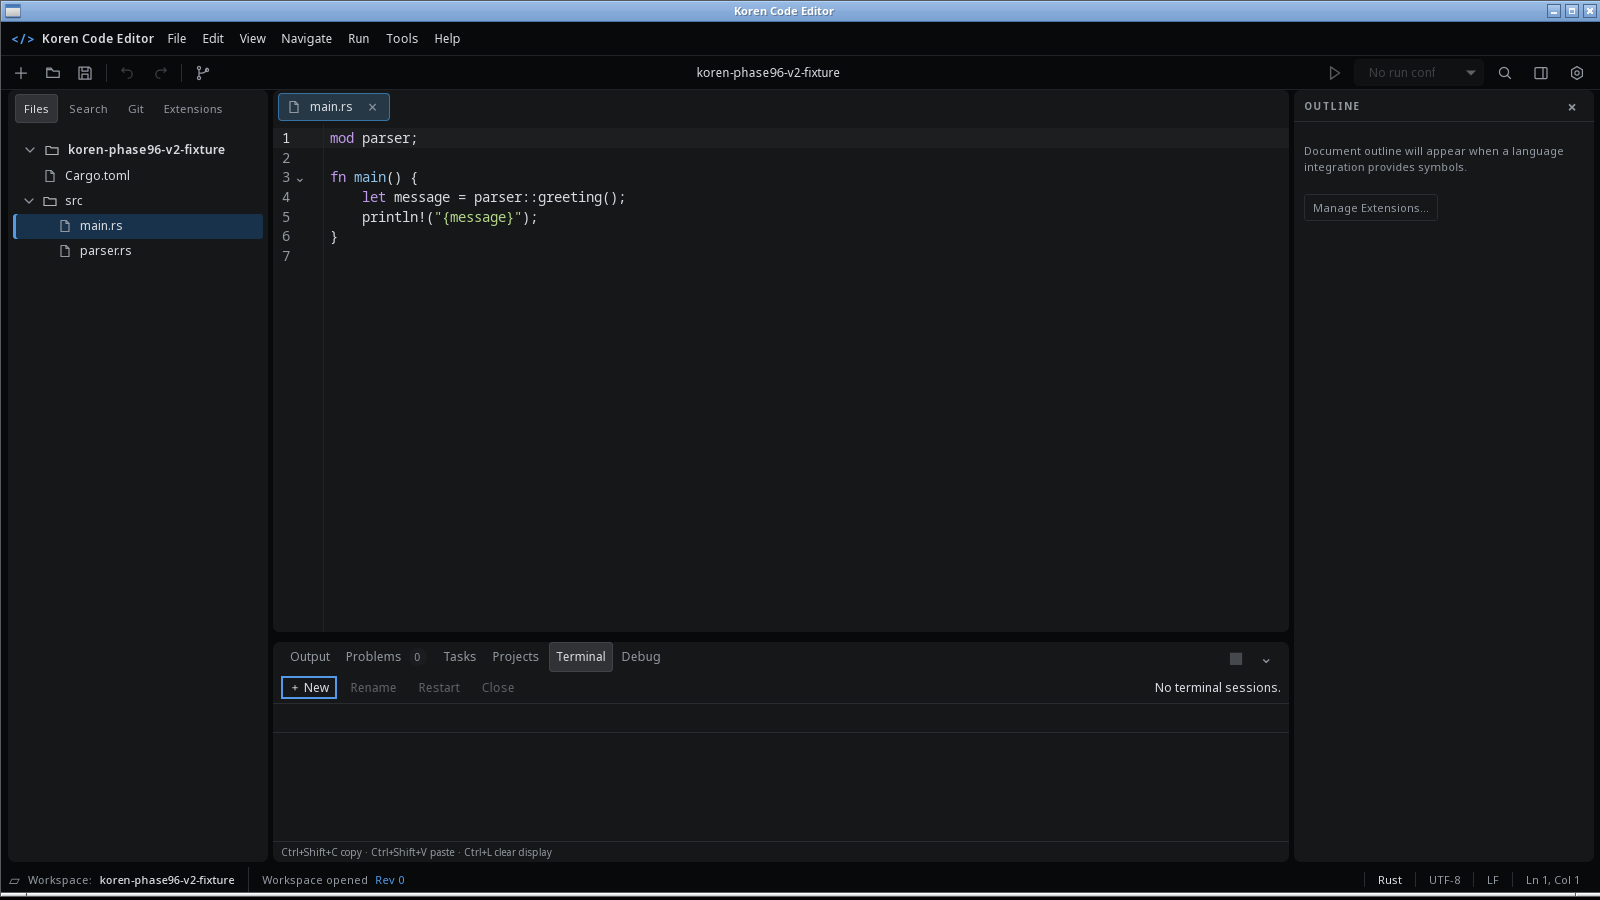
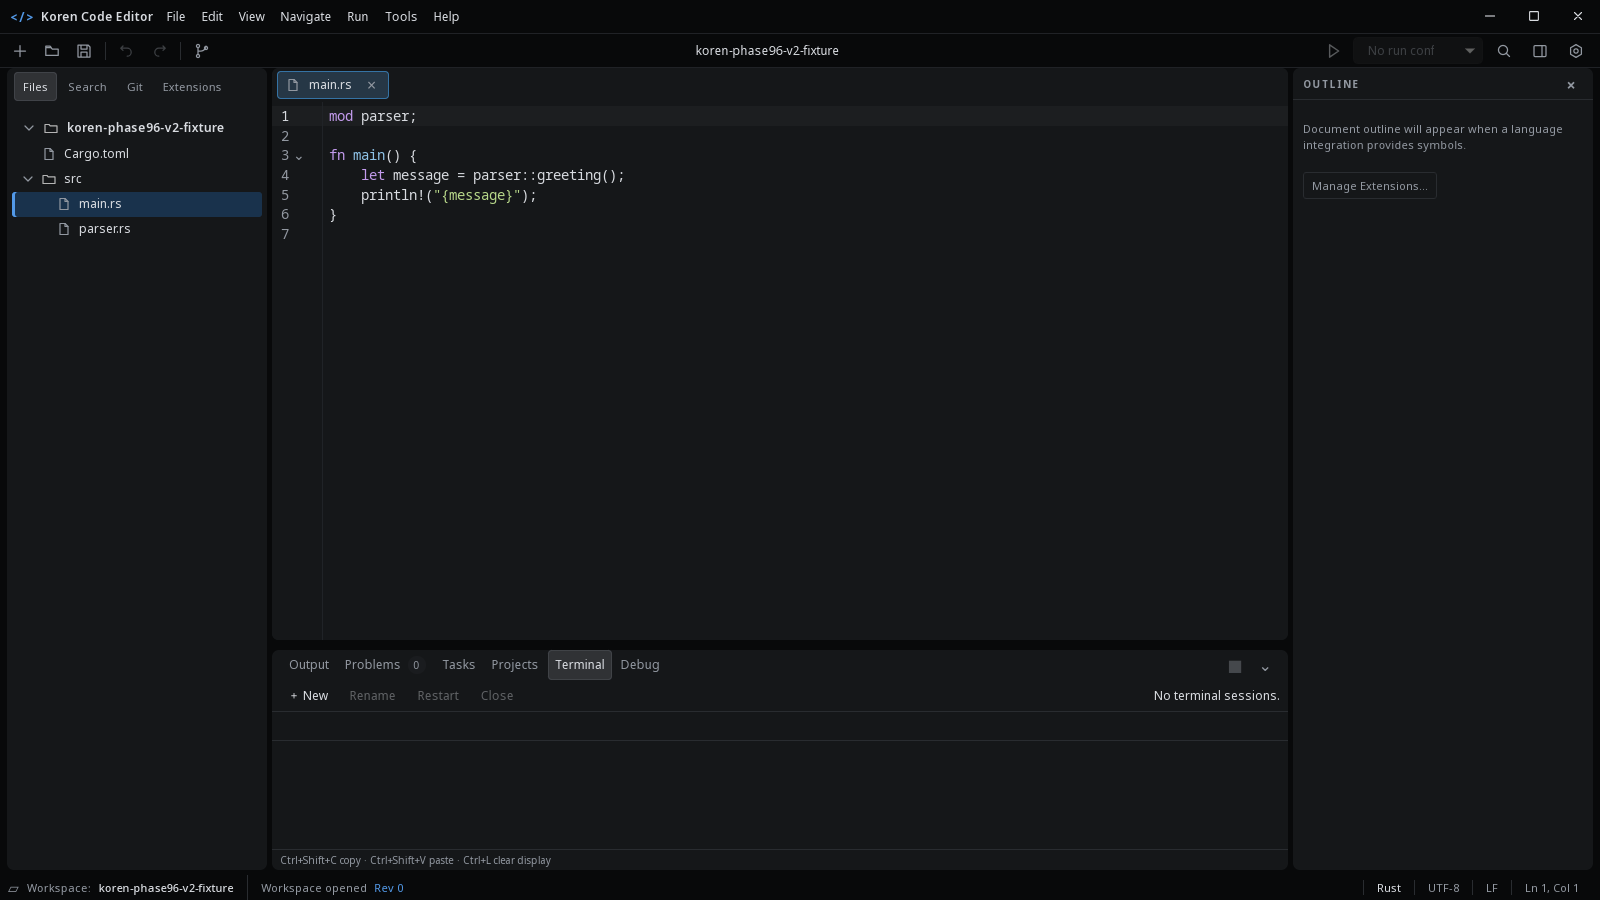
feat(editor): add custom window controls

diff --git a/apps/koren-code/frontend/src/main.ts b/apps/koren-code/frontend/src/main.ts
@@ -17,6 +17,7 @@ import { formatCursorPosition, lineEndingFor } from './app/status';
 import { runConfigurationTasks, selectedRunTask } from './app/toolbar';
 import { gitRepositoryChoices, groupSearchMatches, normalizedCommitMessage, partitionGitFiles, searchSummaryText } from './app/developerTools';
 import { nextTheme, persistTheme, readTheme } from './app/theme';
+import { windowActionMessage, type WindowAction } from './app/windowControls';
 import { effectiveSetting, loadSettings, resetSetting, resetSettings, searchSettings, writeSetting, type SettingDescriptor, type SettingsScope, type SettingsSnapshot } from './app/settings';
 import { taskStatus, visibleOutput } from './app/taskPresentation';
 import { extensionCanActivate, extensionToggleLabel, languageServerEnabled } from './app/extensions';
@@ -40,6 +41,16 @@ interface RecoverySnapshot { schema_version: number; id: string; workspace: stri
 interface RecoverySummary { id: string; workspace: string; path: string; revision: number; updated_at_ms: number; byte_length: number }
 const app = document.querySelector<HTMLDivElement>('#app')!;
 app.innerHTML = workbenchMarkup;
+
+document.querySelectorAll<HTMLButtonElement>('[data-window-action]').forEach((button) => {
+  button.addEventListener('click', () => {
+    const action = button.dataset.windowAction as WindowAction | undefined;
+    if (action) window.ipc?.postMessage(windowActionMessage(action));
+  });
+});
+document.querySelector<HTMLElement>('.wb-drag-region')!.addEventListener('pointerdown', (event) => {
+  if (event.button === 0) window.ipc?.postMessage(windowActionMessage('drag'));
+});
 
 let terminalPanel: import('./app/terminal').TerminalPanel | null = null;
 let debugPanel: import('./app/debug').DebugPanel | null = null;

diff --git a/apps/koren-code/frontend/src/workbench-v2/shell.ts b/apps/koren-code/frontend/src/workbench-v2/shell.ts
@@ -64,7 +64,12 @@ export const workbenchMarkup = `
         <button role="menuitem" data-action="about">About Koren Code Editor</button>
       </div></details>
     </nav></details>
-    <span class="menu-spacer"></span>
+    <span class="wb-drag-region" aria-hidden="true"></span>
+    <div class="window-controls" role="toolbar" aria-label="Window controls">
+      <button type="button" data-window-action="minimize" title="Minimize" aria-label="Minimize"><svg viewBox="0 0 16 16" aria-hidden="true"><path d="M3 8h10"/></svg></button>
+      <button type="button" data-window-action="toggle_maximize" title="Maximize or restore" aria-label="Maximize or restore"><svg viewBox="0 0 16 16" aria-hidden="true"><rect x="3" y="3" width="10" height="10" rx=".6"/></svg></button>
+      <button type="button" class="window-close" data-window-action="close" title="Close" aria-label="Close"><svg viewBox="0 0 16 16" aria-hidden="true"><path d="m4 4 8 8m0-8-8 8"/></svg></button>
+    </div>
   </div>
   <div class="toolbar" role="toolbar" aria-label="Editor actions">
     <div class="toolbar-group wb-legacy-actions">

diff --git a/apps/koren-code/frontend/src/workbench-v2/workbench.css b/apps/koren-code/frontend/src/workbench-v2/workbench.css
@@ -70,6 +70,12 @@
 .workbench-v2 { grid-template-rows: 68px minmax(0, 1fr) 25px; background: #08090a; }
 .wb-title-toolbar { flex-direction: column; align-items: stretch; background: #08090a; border-bottom: 0; }
 .wb-title-toolbar .menu-bar { flex: 0 0 34px; border-bottom: 1px solid #202226; }
+.wb-drag-region { min-width: 12px; flex: 1; align-self: stretch; cursor: default; user-select: none; }
+.window-controls { height: 34px; display: flex; flex: 0 0 auto; margin-right: -10px; }
+.window-controls button { width: 44px; height: 34px; display: grid; place-items: center; border-radius: 0; color: var(--text); }
+.window-controls button:hover { background: #292b2e; }
+.window-controls button svg { width: 14px; height: 14px; }
+.window-controls .window-close:hover { background: #c42b1c; color: #fff; }
 .wb-title-toolbar .brand-name { font-size: 12px; }
 .wb-menu { position: relative; }
 .wb-menu > summary { display: none; }

diff --git a/apps/koren-code/frontend/src/app/windowControls.test.ts b/apps/koren-code/frontend/src/app/windowControls.test.ts
@@ -1,0 +1,11 @@
+import { describe, expect, it } from 'vitest';
+import { windowActionMessage } from './windowControls';
+
+describe('custom window controls', () => {
+  it('encodes actions for the native window host', () => {
+    expect(windowActionMessage('minimize')).toBe('{"type":"window_action","action":"minimize"}');
+    expect(windowActionMessage('toggle_maximize')).toBe('{"type":"window_action","action":"toggle_maximize"}');
+    expect(windowActionMessage('close')).toBe('{"type":"window_action","action":"close"}');
+    expect(windowActionMessage('drag')).toBe('{"type":"window_action","action":"drag"}');
+  });
+});

diff --git a/apps/koren-code/frontend/src/app/windowControls.ts b/apps/koren-code/frontend/src/app/windowControls.ts
@@ -1,0 +1,5 @@
+export type WindowAction = 'minimize' | 'toggle_maximize' | 'close' | 'drag';
+
+export function windowActionMessage(action: WindowAction): string {
+  return JSON.stringify({ type: 'window_action', action });
+}

diff --git a/apps/koren-code/src/main.rs b/apps/koren-code/src/main.rs
@@ -42,7 +42,28 @@ enum UiEvent {
     BackendResponse(Box<koren_protocol::Response>),
     RecoveryResponse(serde_json::Value),
     CloseDecision(bool),
+    WindowAction(WindowAction),
     SmokeExit,
+}
+
+#[derive(Clone, Copy, Debug, PartialEq, Eq)]
+enum WindowAction {
+    Minimize,
+    ToggleMaximize,
+    RequestClose,
+    BeginDrag,
+}
+
+impl WindowAction {
+    fn parse(value: &str) -> Option<Self> {
+        match value {
+            "minimize" => Some(Self::Minimize),
+            "toggle_maximize" => Some(Self::ToggleMaximize),
+            "close" => Some(Self::RequestClose),
+            "drag" => Some(Self::BeginDrag),
+            _ => None,
+        }
+    }
 }
 
 fn main() {
@@ -58,6 +79,7 @@ fn run(workspace: Option<String>) -> Result<(), Box<dyn std::error::Error>> {
     let proxy = event_loop.create_proxy();
     let window = WindowBuilder::new()
         .with_title("Koren Code Editor")
+        .with_decorations(false)
         .with_inner_size(LogicalSize::new(1260.0, 820.0))
         .with_min_inner_size(LogicalSize::new(680.0, 440.0))
         .build(&event_loop)?;
@@ -124,6 +146,16 @@ fn run(workspace: Option<String>) -> Result<(), Box<dyn std::error::Error>> {
             if message.get("type").and_then(serde_json::Value::as_str) == Some("close_decision") {
                 if let Some(allow) = message.get("allow").and_then(serde_json::Value::as_bool) {
                     let _ = proxy_for_ipc.send_event(UiEvent::CloseDecision(allow));
+                }
+                return;
+            }
+            if message.get("type").and_then(serde_json::Value::as_str) == Some("window_action") {
+                if let Some(action) = message
+                    .get("action")
+                    .and_then(serde_json::Value::as_str)
+                    .and_then(WindowAction::parse)
+                {
+                    let _ = proxy_for_ipc.send_event(UiEvent::WindowAction(action));
                 }
                 return;
             }
@@ -300,6 +332,21 @@ fn run(workspace: Option<String>) -> Result<(), Box<dyn std::error::Error>> {
                     *control_flow = ControlFlow::Exit;
                 }
             }
+            Event::UserEvent(UiEvent::WindowAction(action)) => match action {
+                WindowAction::Minimize => window.set_minimized(true),
+                WindowAction::ToggleMaximize => window.set_maximized(!window.is_maximized()),
+                WindowAction::RequestClose => {
+                    if !close_prompt_open {
+                        close_prompt_open = true;
+                        let _ = webview.evaluate_script(
+                            "window.dispatchEvent(new Event('koren-close-request'))",
+                        );
+                    }
+                }
+                WindowAction::BeginDrag => {
+                    let _ = window.drag_window();
+                }
+            },
             Event::UserEvent(UiEvent::SmokeExit) => {
                 bridge::shutdown(&backend);
                 *control_flow = ControlFlow::Exit;
@@ -787,7 +834,7 @@ fn json_response(status: StatusCode, body: Vec<u8>) -> Response<Vec<u8>> {
 
 #[cfg(test)]
 mod tests {
-    use super::{is_disallowed_method, startup_url, workspace_argument};
+    use super::{WindowAction, is_disallowed_method, startup_url, workspace_argument};
     use std::{ffi::OsString, fs};
     use wry::http::Method;
 
@@ -809,6 +856,24 @@ mod tests {
         assert!(is_disallowed_method("/events", &Method::POST));
         assert!(is_disallowed_method("/picker", &Method::POST));
         assert!(is_disallowed_method("/recovery", &Method::DELETE));
+    }
+
+    #[test]
+    fn window_actions_accept_only_supported_controls() {
+        assert_eq!(
+            WindowAction::parse("minimize"),
+            Some(WindowAction::Minimize)
+        );
+        assert_eq!(
+            WindowAction::parse("toggle_maximize"),
+            Some(WindowAction::ToggleMaximize)
+        );
+        assert_eq!(
+            WindowAction::parse("close"),
+            Some(WindowAction::RequestClose)
+        );
+        assert_eq!(WindowAction::parse("drag"), Some(WindowAction::BeginDrag));
+        assert_eq!(WindowAction::parse("quit"), None);
     }
 
     #[test]

diff --git a/docs/PHASE_9_6_UI_AUDIT.md b/docs/PHASE_9_6_UI_AUDIT.md
@@ -30,7 +30,7 @@ The settings surface is currently a small modal containing a theme selector, ext
 
 The Fleet and IntelliJ reference screenshots supplied in the conversation were inspected directly. The requested repository copies under `design-references/` were not present in the checked working tree. No network retrieval was used. The Fleet reference guided the horizontal Files/Search/Git navigation, near-black chrome, compact top controls, separated rounded work areas, editor tabs, and terminal placement. IntelliJ informed the optional secondary tool panel and menu discoverability. The toolbar actions use original inline SVGs; no proprietary icon assets were copied.
 
-The workbench now has a compact menu row and a dedicated action row with consistent new/open/save, undo/redo, source control, run, search, layout, and settings controls. The main canvas separates the horizontal project sidebar, editor tabs/editor, optional outline panel, bottom tool panel, and status bar into rounded dark surfaces. Existing editor, workspace, terminal panel, task, extension, and approval routes continue through the previous application services. The desktop capture is [phase-9-6-workbench.png](screenshots/phase-9-6-workbench.png) (1600×900, real WebKitGTK window, disposable workspace).
+The workbench now has a compact menu row and a dedicated action row with consistent new/open/save, undo/redo, source control, run, search, layout, and settings controls. Its frameless title area includes custom minimize, maximize/restore, and close buttons, plus a drag region. The main canvas separates the horizontal project sidebar, editor tabs/editor, optional outline panel, bottom tool panel, and status bar into rounded dark surfaces. Existing editor, workspace, terminal panel, task, extension, and approval routes continue through the previous application services. The desktop capture is [phase-9-6-workbench.png](screenshots/phase-9-6-workbench.png) (1600×900, real WebKitGTK window, disposable workspace).
 
 Compared with the Fleet reference, the broad hierarchy and panel geometry now align: Fleet-style horizontal sidebar tabs, a compact two-row header, a large central editor, separate bottom terminal area, and a secondary panel are visible. Remaining differences are deliberate or limited: Koren uses its own thin monochrome SVG set and blue active states; the screenshot's terminal panel is open but has no live shell session; the secondary panel currently shows the existing outline empty state. The Fleet screenshot's brighter syntax, denser editor content, and active terminal prompt are not part of this capture. This is the 9.6-A visual checkpoint, not final visual approval.
 
